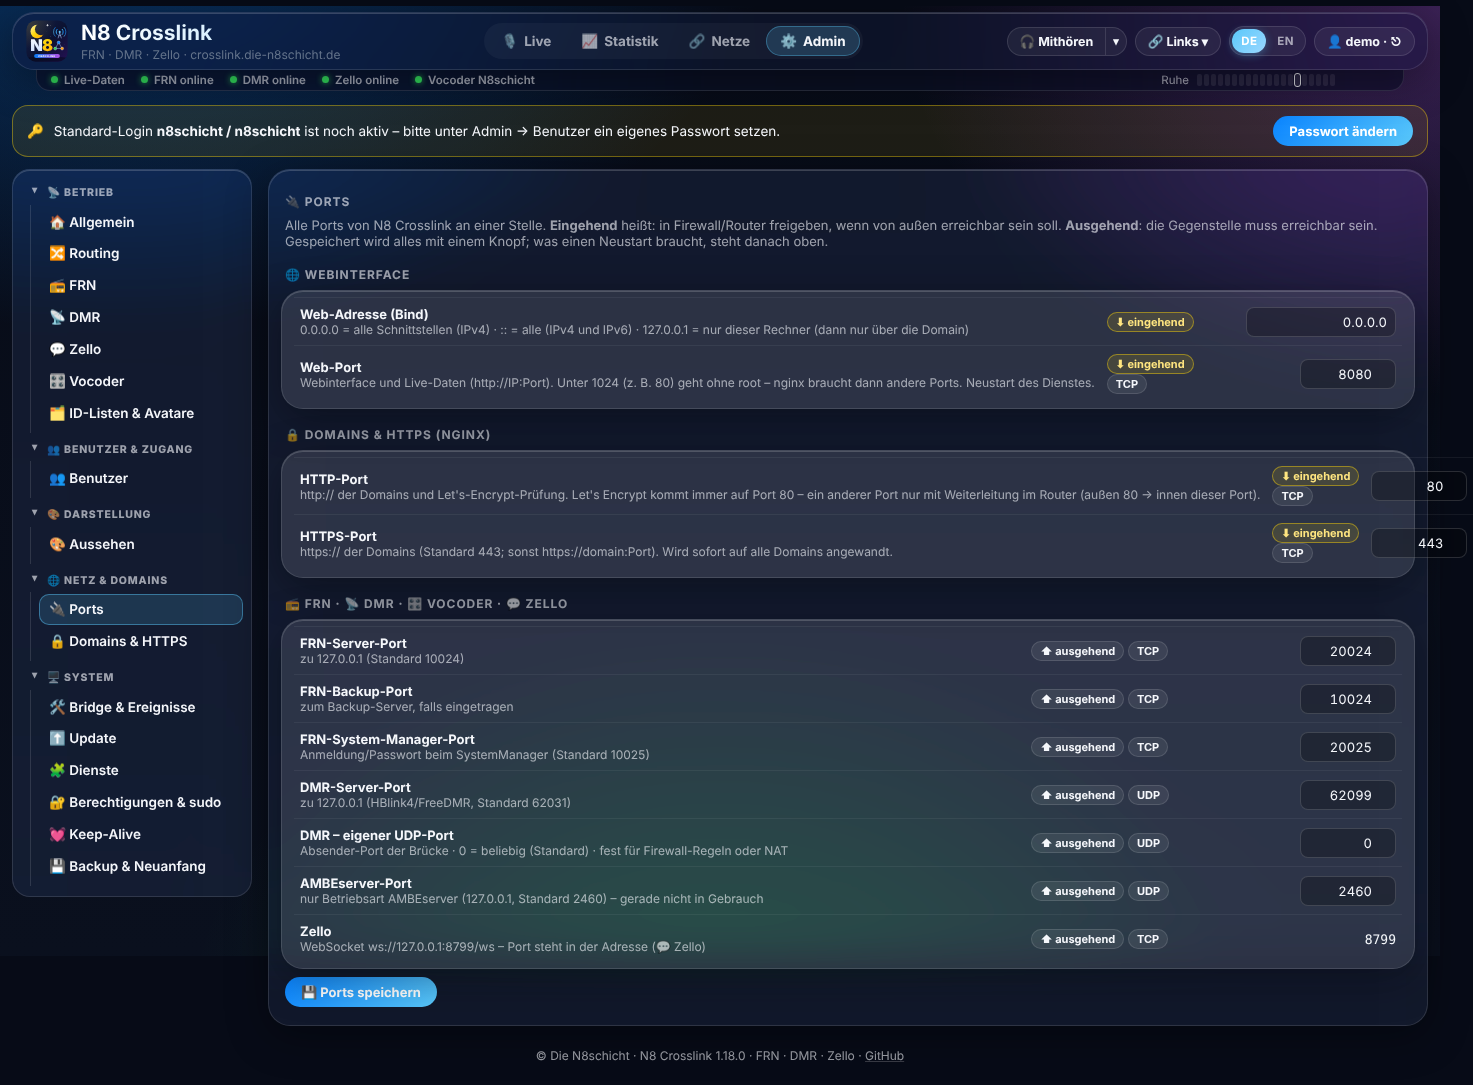
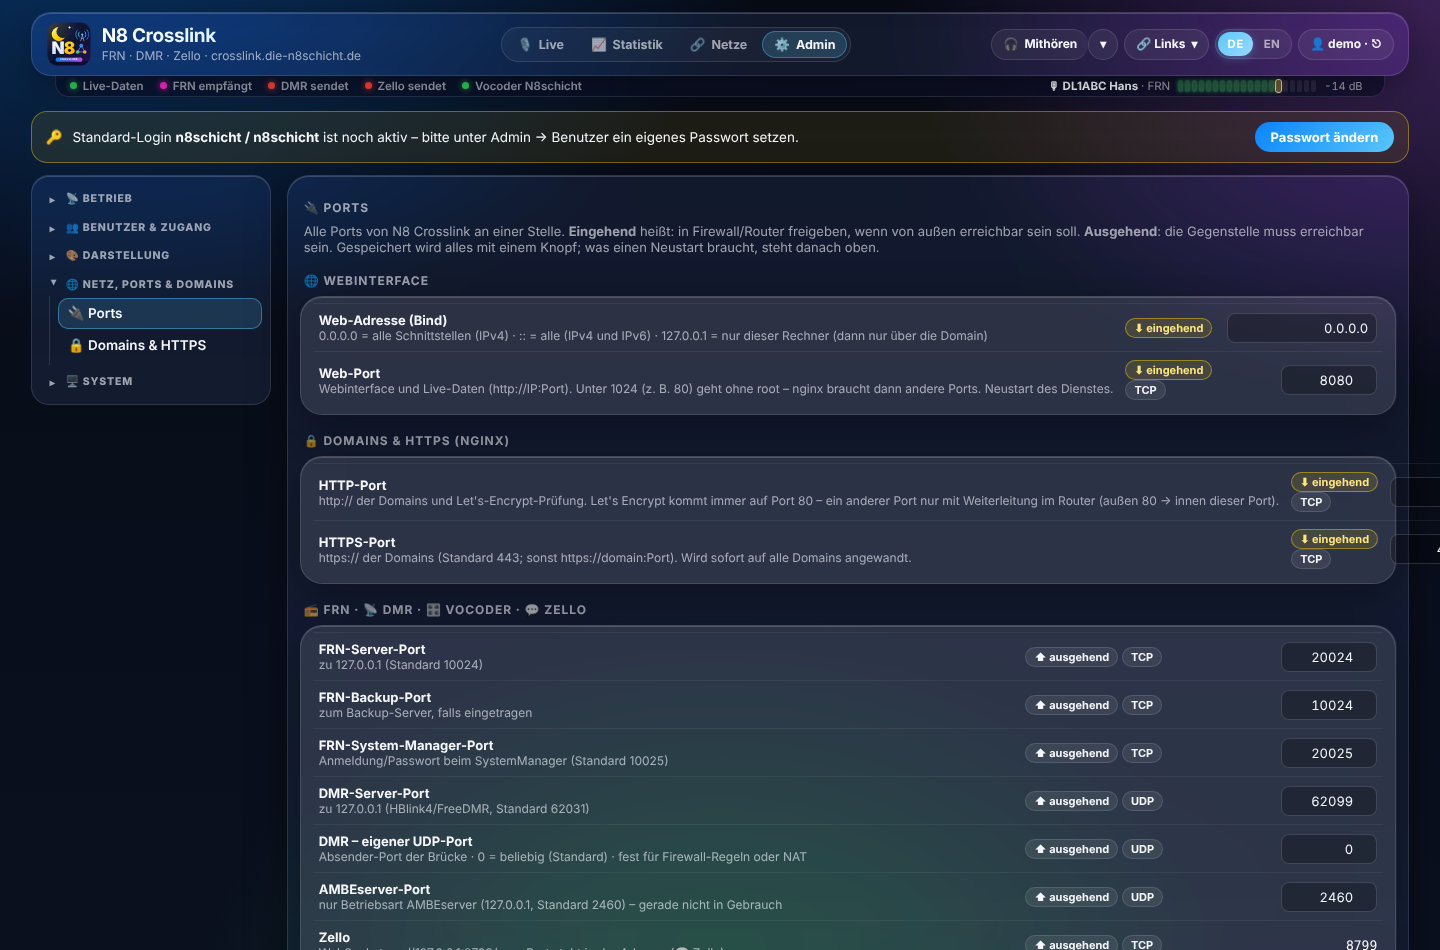
1.20.1: Protokoll unter Benutzer & Zugang, geplante Selbst-Neustarts beim Absturz-Wächter, N8 Kit 1.4 ergänzt
Screenshots Benutzer, Sitzungen, Ports.

Claude-Session: https://claude.ai/code/session_01J5RG2njQDPpN1LJmv9Xn8d

diff --git a/n8crosslink/web/static/n8-kit.js b/n8crosslink/web/static/n8-kit.js
@@ -693,6 +693,7 @@
     //   opts.fields = ['display_name', 'dmr_id', 'callsign']                  zusätzliche Felder je Benutzer
     //   opts.api = { list, create, update, remove, sessions, revoke, audit }    eigene Adressen (sonst /api/admin/users, /sessions, /audit)
     //   opts.locked(u, me) → Text | ''    warum ein Benutzer hier nicht änderbar ist; opts.avatar(u) → HTML; opts.note → Hinweis unter der Tabelle
+    //   opts.columns = [{ label, html(u) }]   zusätzliche Spalten · opts.actions(u) → [{ label, run(u) }] zusätzliche Knöpfe · opts.minPw (8)
     const FIELD = { display_name: ['Anzeigename', 'text'], dmr_id: ['DMR-ID', 'numeric'], callsign: ['Rufzeichen', 'text'] };
     const ago = ts => ts ? fmtShort(ts) : '–';
     function fmtShort(ts) { return new Date(ts * 1000).toLocaleString(lang === 'en' ? 'en-GB' : 'de-DE', { day: '2-digit', month: '2-digit', year: '2-digit', hour: '2-digit', minute: '2-digit' }); }
@@ -729,6 +730,7 @@
             const canAssign = r => r.assign === 'all' || (r.assign === 'superadmin' && me.role === 'superadmin') || (r.assign === 'admin' && ['admin', 'superadmin'].includes(me.role));
             const opts = sel => roles.filter(r => canAssign(r) || r.id === sel).map(r => `<option value="${esc(r.id)}" ${r.id === sel ? 'selected' : ''} ${canAssign(r) ? '' : 'disabled'}>${esc(t(r.label))}</option>`).join('');
             const locked = u => o.locked ? o.locked(u, me) : (u.role === 'superadmin' && me.role !== 'superadmin' ? t('nur Superadmin') : '');
+            const cols = o.columns || [], minPw = o.minPw || 8;
             const load = async () => {
                 let users; try { users = await A.list(); } catch (e) { paint(card('👥 Benutzer', msg(e))); return; }
                 const inp = (f, u) => `<input name="${f}" placeholder="${esc(t(FIELD[f][0]))}" ${FIELD[f][1] === 'numeric' ? 'inputmode="numeric"' : ''} value="${esc(u ? (u[f] ?? '') : '')}">`;
@@ -738,9 +740,10 @@
                             <span><b>${esc(u.username)}</b>${u.display_name ? `<br><small>${esc(u.display_name)}</small>` : ''}</span></span></td>
                         <td>${role(u.role)}${u.disabled ? ` <span class="n8-role n8-role-off">${esc(t('gesperrt'))}</span>` : ''}</td>
                         ${fields.filter(f => f !== 'display_name').map(f => `<td>${esc(u[f] || '–')}</td>`).join('')}
+                        ${cols.map(c => `<td>${c.html(u)}</td>`).join('')}
                         <td>${esc(ago(u.last_login))}</td>
-                        <td class="n8-act">${lk ? `<small class="n8-dim">${esc(lk)}</small>` : `<button type="button" class="n8-btn sm" data-edit="${i}">${esc(t('Bearbeiten'))}</button>`}</td></tr>
-                        ${lk ? '' : `<tr class="n8-edit" data-row="${i}" hidden><td colspan="${4 + fields.filter(f => f !== 'display_name').length}"><form class="n8-iform" data-i="${i}">
+                        <td class="n8-act">${(o.actions ? o.actions(u) : []).map((a, k) => `<button type="button" class="n8-btn sm" data-x="${i}:${k}">${esc(t(a.label))}</button>`).join('')}${lk ? `<small class="n8-dim">${esc(lk)}</small>` : `<button type="button" class="n8-btn sm" data-edit="${i}">${esc(t('Bearbeiten'))}</button>`}</td></tr>
+                        ${lk ? '' : `<tr class="n8-edit" data-row="${i}" hidden><td colspan="${4 + cols.length + fields.filter(f => f !== 'display_name').length}"><form class="n8-iform" data-i="${i}">
                             ${fields.map(f => inp(f, u)).join('')}
                             <input name="password" type="password" placeholder="${esc(t('Neues Passwort (optional)'))}" autocomplete="new-password">
                             <select name="role">${opts(u.role)}</select>
@@ -748,15 +751,15 @@
                             <button class="n8-btn primary sm" type="submit">${esc(t('Speichern'))}</button>
                             <button class="n8-btn sm danger" type="button" data-del="${i}">${esc(t('Löschen'))}</button></form></td></tr>`}`;
                 }).join('');
-                const first = roles.filter(canAssign).slice(-1)[0];
+                const first = roles.find(r => r.id === o.defaultRole) || roles.filter(canAssign).slice(-1)[0];
                 paint(card('👥 Benutzer', `<p class="n8-help">${esc(t(o.intro || 'Wer sich anmelden darf. Admins sehen IP-Adressen und Ports und ändern Einstellungen; Benutzer sehen nur das Dashboard.'))}</p>
                     <form class="n8-iform create">
                         <input name="username" placeholder="${esc(t('Benutzername'))}" required autocomplete="off">
                         ${fields.map(f => inp(f)).join('')}
-                        <input name="password" type="password" placeholder="${esc(t('Passwort (min. 8)'))}" minlength="8" required autocomplete="new-password">
+                        <input name="password" type="password" placeholder="${esc(t('Passwort (min. {n})').replace('{n}', minPw))}" minlength="${minPw}" required autocomplete="new-password">
                         <select name="role">${opts(first ? first.id : '')}</select>
                         <button class="n8-btn primary sm" type="submit">＋ ${esc(t('Benutzer anlegen'))}</button></form>
-                    <table class="n8-tbl"><thead><tr><th>${esc(t('Benutzer'))}</th><th>${esc(t('Rolle'))}</th>${fields.filter(f => f !== 'display_name').map(f => `<th>${esc(t(FIELD[f][0]))}</th>`).join('')}<th>${esc(t('Letzte Anmeldung'))}</th><th></th></tr></thead>
+                    <table class="n8-tbl"><thead><tr><th>${esc(t('Benutzer'))}</th><th>${esc(t('Rolle'))}</th>${fields.filter(f => f !== 'display_name').map(f => `<th>${esc(t(FIELD[f][0]))}</th>`).join('')}${cols.map(c => `<th>${esc(t(c.label))}</th>`).join('')}<th>${esc(t('Letzte Anmeldung'))}</th><th></th></tr></thead>
                     <tbody>${rows}</tbody></table>${o.note ? `<p class="n8-help">${esc(t(o.note))}</p>` : ''}`));
                 const fd = f => { const d = {}; for (const x of f.elements) if (x.name) d[x.name] = x.type === 'checkbox' ? x.checked : x.value.trim(); if ('dmr_id' in d) d.dmr_id = d.dmr_id ? Number(d.dmr_id) : null; return d; };
                 el.querySelector('form.create').onsubmit = async e => {
@@ -764,6 +767,7 @@
                     try { await A.create(d); toast(t('Benutzer angelegt') + ': ' + d.username); load(); } catch (x) { toast(x.message, true); }
                 };
                 el.querySelectorAll('[data-edit]').forEach(b => b.onclick = () => { const r = el.querySelector(`tr[data-row="${b.dataset.edit}"]`); r.hidden = !r.hidden; });
+                el.querySelectorAll('[data-x]').forEach(b => b.onclick = () => { const [i, k] = b.dataset.x.split(':').map(Number); o.actions(users[i])[k].run(users[i], load); });
                 el.querySelectorAll('form[data-i]').forEach(f => f.onsubmit = async e => {
                     e.preventDefault(); const d = fd(f); if (!d.password) delete d.password;
                     try { await A.update(users[f.dataset.i], d); toast(t('Gespeichert')); load(); } catch (x) { toast(x.message, true); }
@@ -781,7 +785,7 @@
                 paint(card('🔑 Sitzungen', `<p class="n8-help">${esc(t('Alle aktuellen Anmeldungen. Mit „Abmelden“ ist das Gerät sofort abgemeldet.'))}</p>
                     ${!list.length ? `<div class="n8-help">${esc(t('Keine aktiven Sitzungen.'))}</div>` : `<table class="n8-tbl"><thead><tr><th>${esc(t('Benutzer'))}</th><th>IP</th><th>Browser</th><th>${esc(t('Zuletzt aktiv'))}</th><th>${esc(t('Läuft ab'))}</th><th></th></tr></thead>
                     <tbody>${list.map((x, i) => `<tr><td><b>${esc(x.username)}</b> ${x.role ? role(x.role) : ''}${x.current ? ` <span class="n8-badge ok">${esc(t('diese Sitzung'))}</span>` : ''}</td>
-                        <td><code>${esc(x.ip || '–')}</code></td><td>${esc(shortUA(x.user_agent))}</td><td>${esc(ago(x.last_seen))}</td><td>${esc(ago(x.expires_at))}</td>
+                        <td><code>${esc(x.ip || '–')}</code></td><td>${esc(shortUA(x.user_agent))}</td><td>${esc(ago(x.last_seen || x.created_at))}</td><td>${esc(ago(x.expires_at))}</td>
                         <td class="n8-act">${x.id ? `<button type="button" class="n8-btn sm danger" data-rev="${i}">${esc(t('Abmelden'))}</button>` : ''}</td></tr>`).join('')}</tbody></table>`}`));
                 el.querySelectorAll('[data-rev]').forEach(b => b.onclick = async () => {
                     try { await A.revoke(list[b.dataset.rev]); toast(t('Sitzung beendet')); load(); } catch (x) { toast(x.message, true); }
@@ -821,9 +825,10 @@
                 paint(`${card('🔌 Ports', `<p class="n8-help">${esc(t(d.intro || 'Alle Ports an einer Stelle. Eingehend: in Firewall und Router freigeben, wenn das von außen erreichbar sein soll. Ausgehend: die Gegenstelle muss erreichbar sein.'))}</p>
                     ${d.note ? `<div class="n8-help">♻ ${esc(t(d.note))}</div>` : ''}`)}
                     <div class="n8-net-grid" style="margin-top:16px">${(d.groups || []).map(g => card(g.title, `${g.help ? `<p class="n8-help">${esc(t(g.help))}</p>` : ''}<table class="n8-tbl"><tbody>${g.rows.map(row).join('')}</tbody></table>`)).join('')}</div>
-                    <div class="n8-actions"><button type="button" class="n8-btn primary" data-a="save">💾 ${esc(t('Ports speichern'))}</button>${d.restart ? `<button type="button" class="n8-btn" data-a="restart">♻ ${esc(t(d.restart.button || 'Dienst neu starten'))}</button>` : ''}</div>
+                    <div class="n8-actions">${(d.groups || []).some(g => g.rows.some(r => !r.readonly)) ? `<button type="button" class="n8-btn primary" data-a="save">💾 ${esc(t('Ports speichern'))}</button>` : ''}${d.restart ? `<button type="button" class="n8-btn" data-a="restart">♻ ${esc(t(d.restart.button || 'Dienst neu starten'))}</button>` : ''}</div>
                     <pre class="n8-log n8-net-out" hidden></pre>`);
-                el.querySelector('[data-a=save]').onclick = async e => {
+                const sb = el.querySelector('[data-a=save]');
+                if (sb) sb.onclick = async e => {
                     const values = {};
                     el.querySelectorAll('.n8-in[data-k]').forEach(i => { values[i.dataset.k] = i.dataset.kind === 'port' ? Number(i.value) : i.value.trim(); });
                     e.target.disabled = true;
@@ -940,7 +945,7 @@
             // 1.4.0: Benutzer & Zugang, Netz, Ports & Domains
             '🌐 Netz, Ports & Domains': '🌐 Network, ports & domains', '👥 Benutzer': '👥 Users', '🔑 Sitzungen': '🔑 Sessions', '📜 Protokoll': '📜 Log',
             'Benutzer': 'User', 'Rolle': 'Role', 'Letzte Anmeldung': 'Last login', 'Bearbeiten': 'Edit', 'gesperrt': 'disabled', 'Anzeigename': 'Display name',
-            'Rufzeichen': 'Callsign', 'Benutzername': 'Username', 'Passwort (min. 8)': 'Password (min. 8)', 'Neues Passwort (optional)': 'New password (optional)',
+            'Rufzeichen': 'Callsign', 'Benutzername': 'Username', 'Passwort (min. {n})': 'Password (min. {n})', 'Neues Passwort (optional)': 'New password (optional)',
             'Benutzer anlegen': 'Add user', 'Löschen': 'Delete', 'Wirklich löschen?': 'Really delete?', 'Benutzer angelegt': 'User created', 'Benutzer gelöscht': 'User deleted',
             'nur Superadmin': 'superadmin only', 'Superadmin': 'Superadmin', 'Admin': 'Admin', 'Betrachter': 'Viewer', 'Autor': 'Author', 'Redakteur': 'Editor',
             'Wer sich anmelden darf. Admins sehen IP-Adressen und Ports und ändern Einstellungen; Benutzer sehen nur das Dashboard.': 'Who may log in. Admins see IP addresses and ports and change settings; users only see the dashboard.',

diff --git a/n8crosslink/web/static/crosslink.js b/n8crosslink/web/static/crosslink.js
@@ -452,6 +452,7 @@ const SCHEMA = {
   backup: { title: '💾 Backup & Neuanfang', custom: renderBackup },
   users: { title: '👥 Benutzer', custom: () => accessView('users') },
   sessions: { title: '🔑 Sitzungen', custom: () => accessView('sessions') },
+  audit: { title: '📜 Protokoll', custom: () => accessView('audit') },
   ports: { title: '🔌 Ports', custom: renderPorts },
   domains: { title: '🔒 Domains & HTTPS', custom: renderDomains },
   system: { title: '🛠 Bridge & Ereignisse', custom: renderSystem },
@@ -462,7 +463,7 @@ const SCHEMA = {
   'sys-crashes': { title: '💥 Abstürze', custom: () => sysView('crashes') },
 };
 // Admin-Menü: derselbe Baum wie in allen N8-Systemen (N8 Kit) – Betrieb · Benutzer & Zugang · Darstellung · Netz & Domains · System
-const ADMIN_GROUPS = [['betrieb', ['general', 'routes', 'frn', 'dmr', 'zello', 'vocoder', 'ids']], ['zugang', ['users', 'sessions']], ['darstellung', ['appearance']],
+const ADMIN_GROUPS = [['betrieb', ['general', 'routes', 'frn', 'dmr', 'zello', 'vocoder', 'ids']], ['zugang', ['users', 'sessions', 'audit']], ['darstellung', ['appearance']],
   ['netz', ['ports', 'domains']], ['system', ['system', 'sys-update', 'sys-services', 'sys-perms', 'sys-keepalive', 'sys-crashes', 'backup']]];
 const ADMIN_OLD = { update: 'sys-update' };
 // System → Update, Dienste, Berechtigungen & sudo, Keep-Alive: die N8-Kit-Ansichten, in allen N8-Systemen gleich

diff --git a/n8crosslink/web/server.py b/n8crosslink/web/server.py
@@ -146,7 +146,9 @@ def create_app(bridge) -> FastAPI:  # noqa: ANN001, C901
         user, pw = str(data.get("username", "")), str(data.get("password", ""))
         await asyncio.sleep(0.3)  # Bremse gegen Durchprobieren
         if not db.check_login(user, pw):
+            db.event("warn", f"Anmeldung fehlgeschlagen: {user[:40]} ({_client_ip(request)})")
             raise HTTPException(401, "Benutzername oder Passwort falsch")
+        db.event("info", f"Anmeldung: {user} ({_client_ip(request)})")
         resp = JSONResponse({"ok": True, "user": user})
         resp.set_cookie(COOKIE, db.new_session(user, ip=_client_ip(request), user_agent=request.headers.get("user-agent", "")),
                         httponly=True, samesite="lax", max_age=12 * 3600)
@@ -291,6 +293,8 @@ def create_app(bridge) -> FastAPI:  # noqa: ANN001, C901
                 ok, _out = await bridge.system.unit_action("n8crosslink.service", "restart")
                 if ok:
                     return
+            from ..n8_crash import mark_planned
+            mark_planned(os.path.dirname(os.path.abspath(db.path)), "n8crosslink.service", "Neustart aus dem Webinterface")
             os._exit(3)  # Fallback: systemd startet den Dienst neu (Restart=always)
         asyncio.create_task(_go())
         return {"ok": True}
@@ -847,6 +851,22 @@ def create_app(bridge) -> FastAPI:  # noqa: ANN001, C901
         db.delete_user(name)
         bridge.router.event("info", f"Benutzer {name} gelöscht durch {me_}")
         return {"ok": True}
+
+    @app.get("/api/admin/audit")
+    async def audit_get(_: str = Depends(require_admin)) -> dict:
+        """📜 Protokoll: Anmeldungen und Änderungen im Adminbereich (aus den Ereignissen der Bridge)."""
+        import re as _re
+        rx = _re.compile(r"^(Anmeldung|Benutzer |Sitzung |System: |Einstellungen|Backup|Wiederherstell|Zurückgesetzt|Update)")
+        out = []
+        for e in db.events(1000):
+            if rx.match(e["text"]):
+                m = _re.search(r"durch (\S+)", e["text"]) or _re.search(r"Anmeldung(?: fehlgeschlagen)?: (\S+)", e["text"])
+                ip = _re.search(r"\(([0-9a-fA-F:.]+)\)$", e["text"])
+                out.append({"ts": e["ts"], "action": e["text"].split(":")[0].split(" ")[0], "username": m.group(1) if m else "",
+                            "detail": e["text"], "ip": ip.group(1) if ip else ""})
+            if len(out) >= 200:
+                break
+        return {"audit": out}
 
     @app.get("/api/admin/sessions")
     async def sessions_get(request: Request, _: str = Depends(require_admin)) -> dict:

diff --git a/n8crosslink/n8_crash.py b/n8crosslink/n8_crash.py
@@ -46,6 +46,18 @@ KINDS = {   # Art -> Bezeichnung (gleiche Liste im N8 Kit und in n8-admin.sh)
 }
 
 
+def mark_planned(data_dir: str, unit: str, reason: str = "") -> None:
+    """Die Anwendung beendet sich gleich ABSICHTLICH selbst (z. B. Neustart-Knopf, der den eigenen Prozess beendet, damit systemd
+    ihn neu startet). Der crash-hook von n8-admin.sh sieht dann kein Absturz, sondern einen geplanten Neustart (Marke gilt 3 Minuten)."""
+    try:
+        d = os.path.join(os.path.abspath(data_dir), "crash")
+        os.makedirs(d, exist_ok=True)
+        with open(os.path.join(d, f"planned-{unit or 'app'}"), "w", encoding="utf-8") as f:
+            f.write(f"{time.time():.0f} {reason}\n")
+    except OSError:
+        pass
+
+
 def new_id() -> str:
     return time.strftime("%Y%m%d-%H%M%S") + "-" + secrets.token_hex(2)
 

diff --git a/n8crosslink/__init__.py b/n8crosslink/__init__.py
@@ -1,2 +1,2 @@
 """N8 Crosslink – FRN · DMR · Zello Bridge im Die-N8schicht-Design."""
-__version__ = "1.20.0"
+__version__ = "1.20.1"

diff --git a/CHANGELOG.md b/CHANGELOG.md
@@ -2,6 +2,18 @@
 
 Alle Änderungen an N8 Crosslink. Versionierung nach [SemVer](https://semver.org/lang/de/).
 
+## [1.20.1] – 2026-11-25
+
+### 👥 Benutzer & Zugang komplett wie in HBlink4
+- Neu **📜 Protokoll** unter *Benutzer & Zugang*: Anmeldungen (auch fehlgeschlagene, mit IP) und jede Änderung an Benutzern,
+  Sitzungen und Diensten – wie in allen N8-Systemen (👥 Benutzer · 🔑 Sitzungen · 📜 Protokoll). Adresse `GET /api/admin/audit`.
+- Gemeinsame Ansicht verbessert (N8 Kit 1.4): zusätzliche Spalten und Knöpfe je System (z. B. Beiträge und ✍ Profil im Portal),
+  Vorgabe-Rolle beim Anlegen, „Ports speichern“ nur wenn etwas änderbar ist.
+
+### 🛡 Absturz-Wächter: geplante Selbst-Neustarts
+- Beendet sich ein Dienst absichtlich selbst (Neustart-Knopf, HTTPS umschalten, Neustart nach Update), meldet er das vorher
+  (`n8_crash.mark_planned`) – der Absturz-Wächter hält das nicht mehr als Absturz fest. Gilt in allen N8-Systemen.
+
 ## [1.20.0] – 2026-11-25
 
 ### 👥 Benutzer & Zugang wie in HBlink4-FreeRadioID – in allen N8-Systemen gleich
